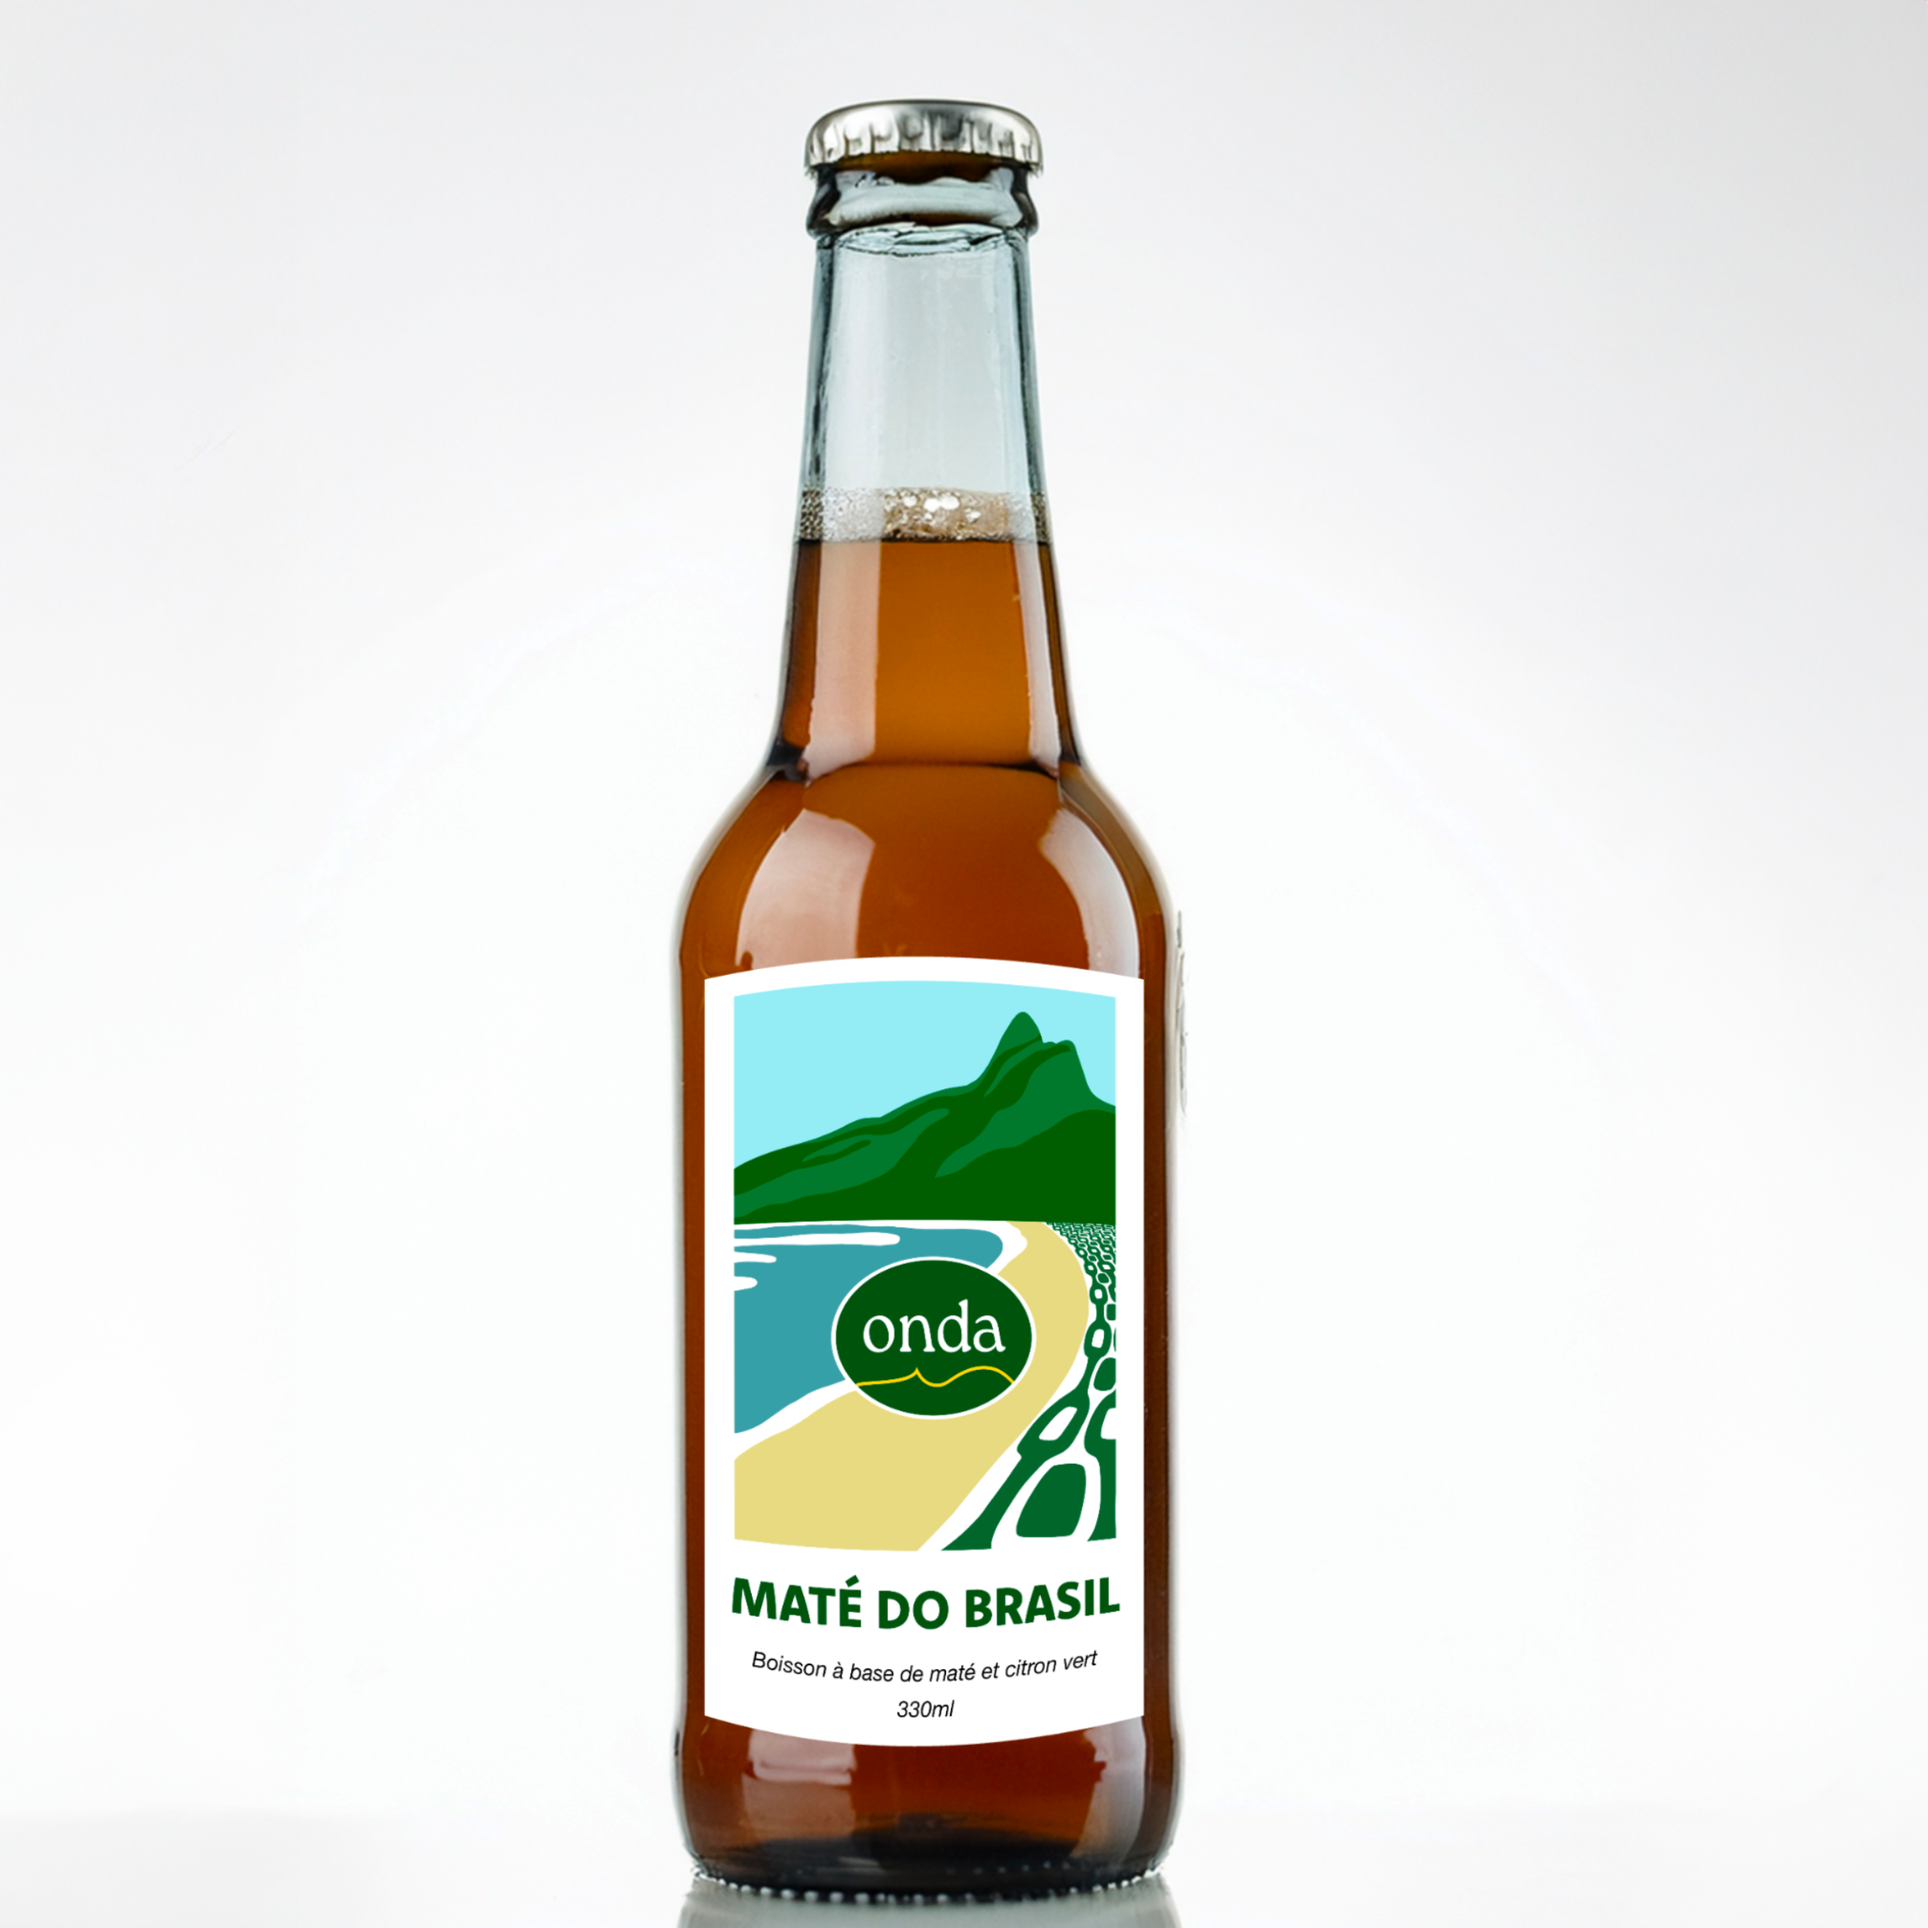
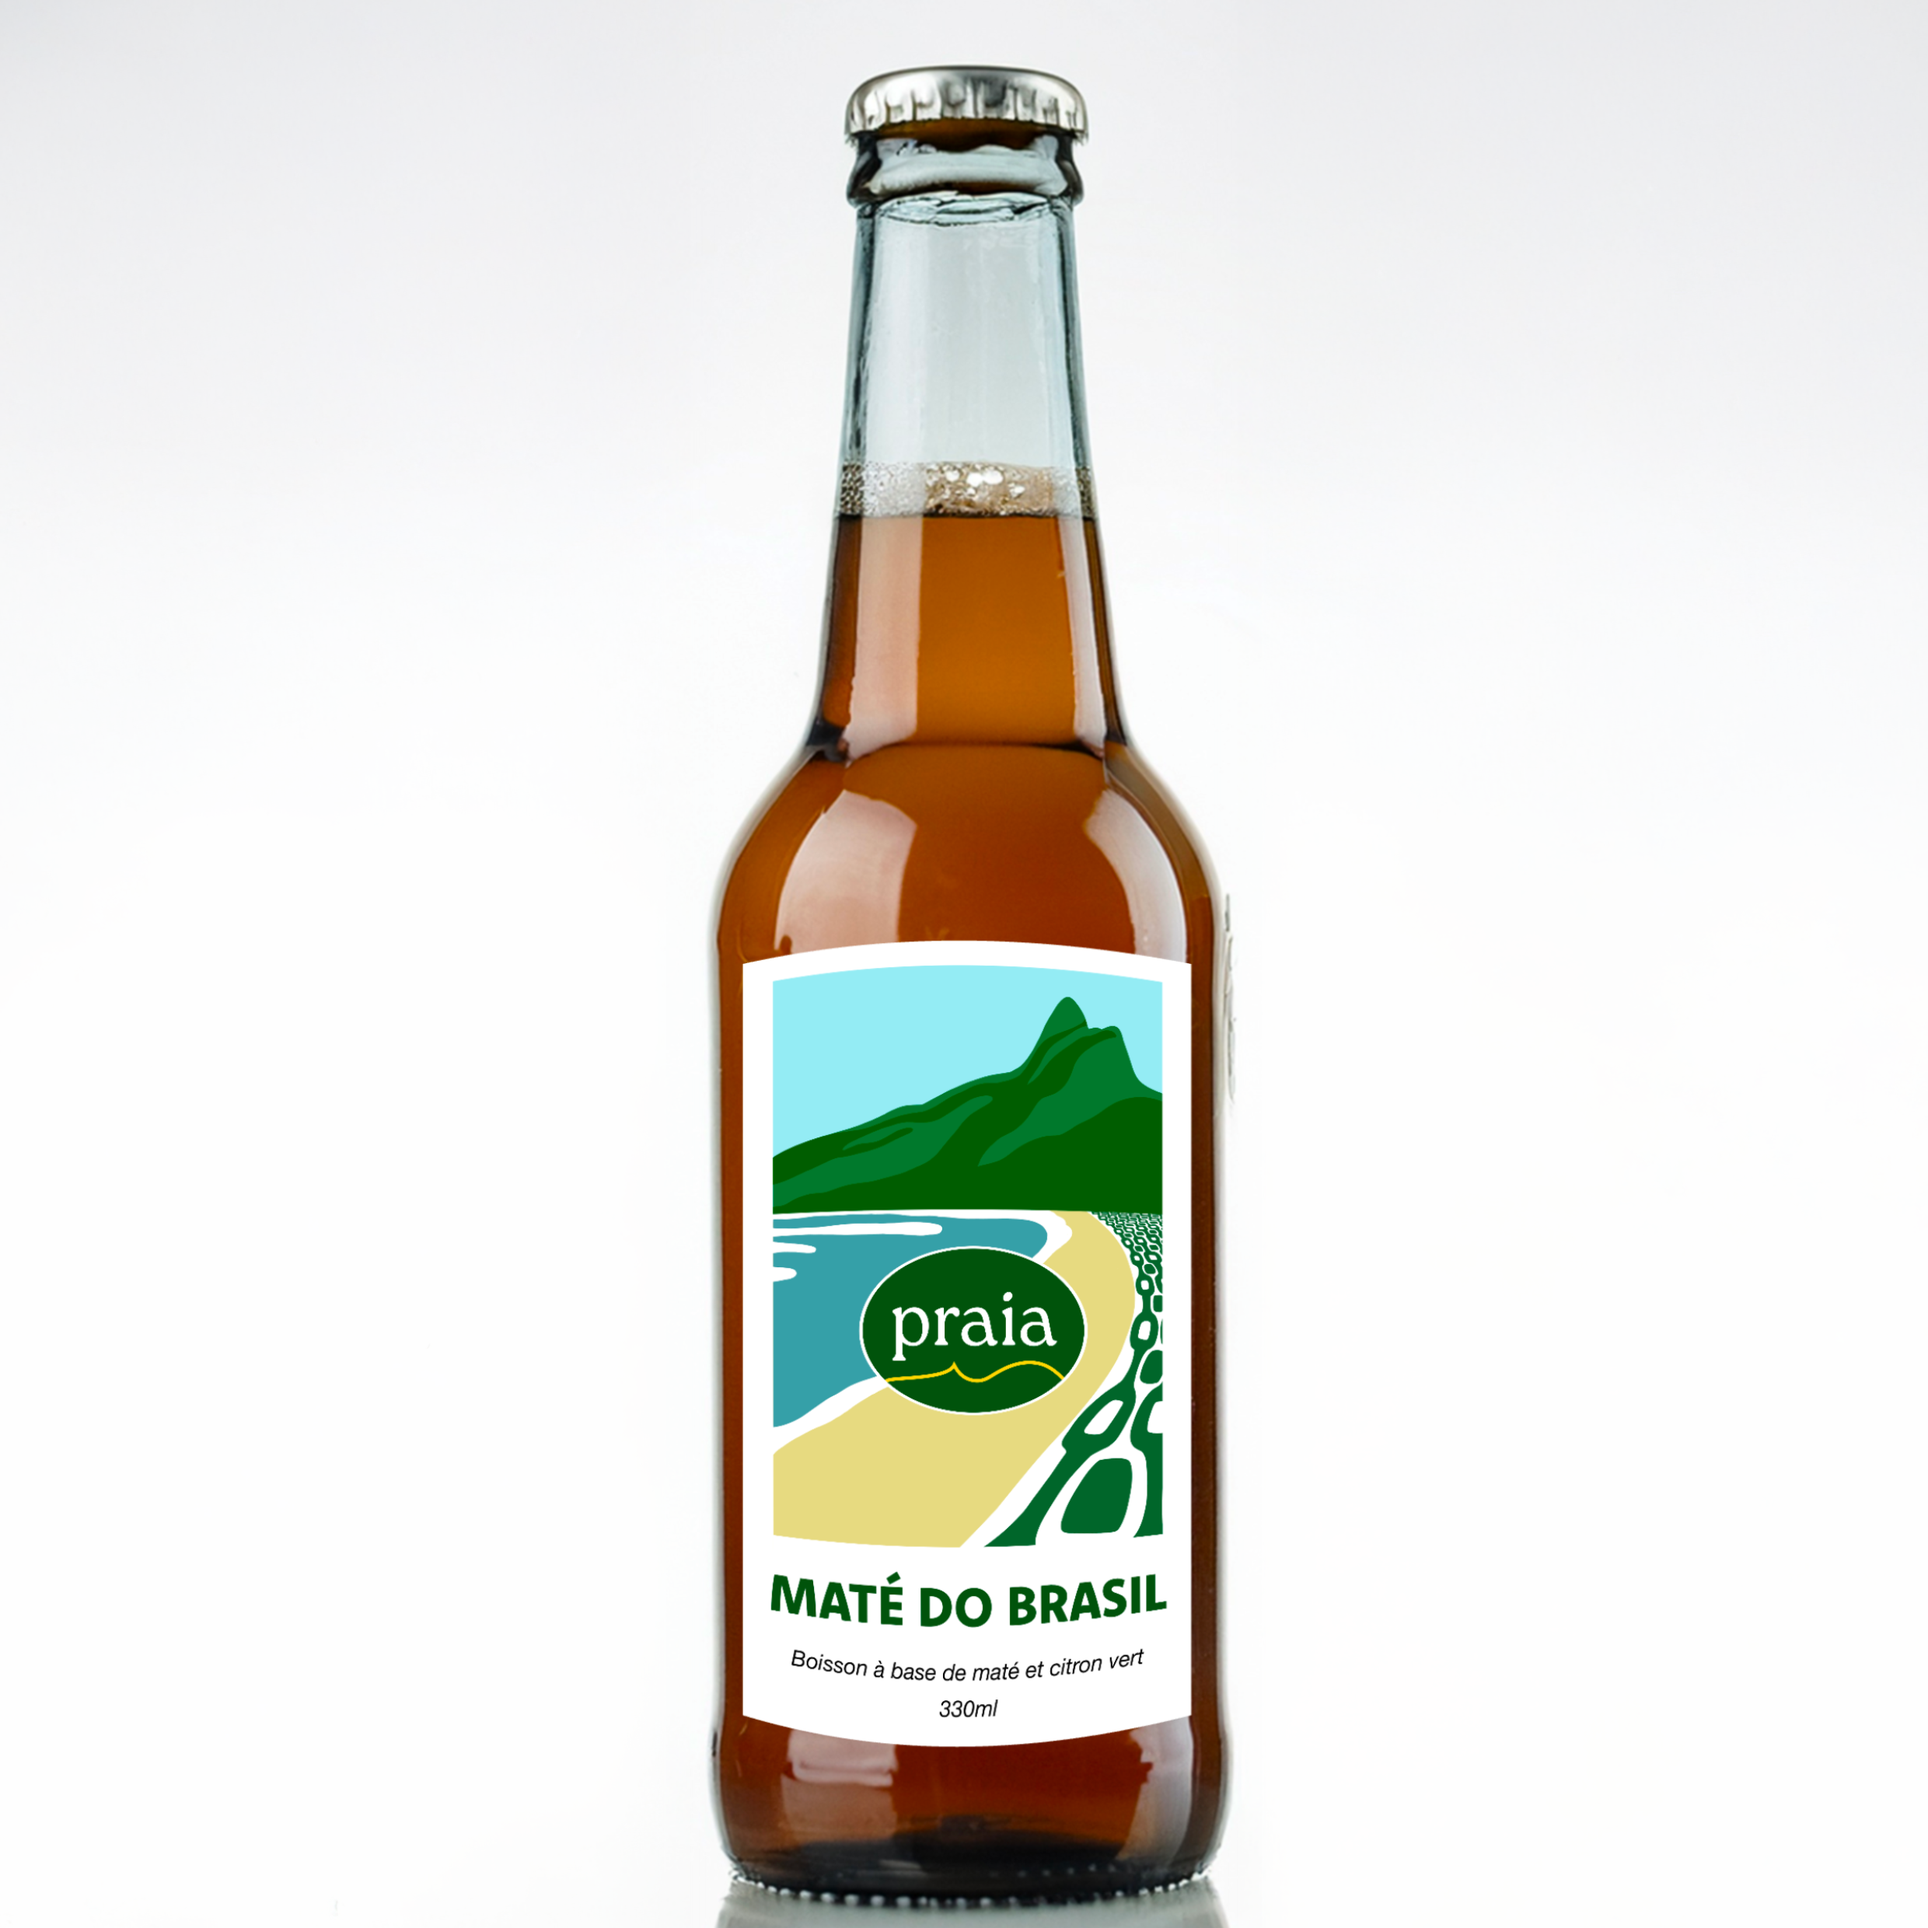
maj wording and image

Changed region(s): [[0.3415, 0.031, 0.652, 1.0]]

diff --git a/src/app/product/product.component.html b/src/app/product/product.component.html
@@ -9,23 +9,23 @@
           <div class="m-4">
             <div class="flex inline-flex m-4">
               <div class="text-white bg-green-brazil w-8 h-8 rounded-full inline-flex items-center justify-center">1</div>
-              <h3 class="text-green-brazil text-md ml-4 font-bold inline-flex items-center justify-center"><span>la boisson carioca:</span></h3>
+              <h3 class="text-green-brazil text-md ml-4 font-bold inline-flex items-center justify-center"><span>la boisson carioca</span></h3>
             </div>
             <p class="ml-16 font-thin">Savourez le maté, emblème des Cariocas, riche en propriétés énergisantes.</p>
           </div>
           <div class="m-4">
             <div class="flex inline-flex m-4">
               <div class="text-white bg-green-brazil w-8 h-8 rounded-full inline-flex items-center justify-center">2</div>
-              <h3 class="text-green-brazil text-md ml-4 font-bold inline-flex items-center justify-center">Oubliez sodas et alcool ! </h3>
+              <h3 class="text-green-brazil text-md ml-4 font-bold inline-flex items-center justify-center">la dose d'énergie qu'il vous faut</h3>
             </div>
-            <p class="ml-16 font-thin"> Le maté, sans additifs ni conservateurs, est une boisson rafraîchissante.</p>
+            <p class="ml-16 font-thin">Boostez votre énergie naturellement avec le maté: riche en caféine douche, antioxydants et vitamines. Il vous accompagne au quotidien sans pics ni fatigues. Une bouteille et vous être prêt(e)s à affronter la journée.</p>
           </div>
           <div class="m-4">
             <div class="flex inline-flex m-4">
               <div class="text-white bg-green-brazil w-8 h-8 rounded-full inline-flex items-center justify-center">3</div>
-              <h3 class="text-green-brazil text-md ml-4 font-bold inline-flex items-center justify-center">Une alternative aux sodas et à l’alcool</h3>
+              <h3 class="text-green-brazil text-md ml-4 font-bold inline-flex items-center justify-center">une alternative saine</h3>
             </div>
-            <p class="ml-16 font-thin">Un équilibre subtil entre les notes grillées du maté torréfié, la fraîcheur acidulée du citron vert et la douceur du sucre de canne.</p>
+            <p class="ml-16 font-thin">Oubliez sodas et alcool ! Le maté, sans additifs ni conservateurs, est une boisson rafraîchissante, légère et pleine de saveurs. Idéal pour vos repas, moments entre amis ou pour vous hydrater.</p>
           </div>
         </div>
         <hr class="bg-green-brazil my-4"/>
